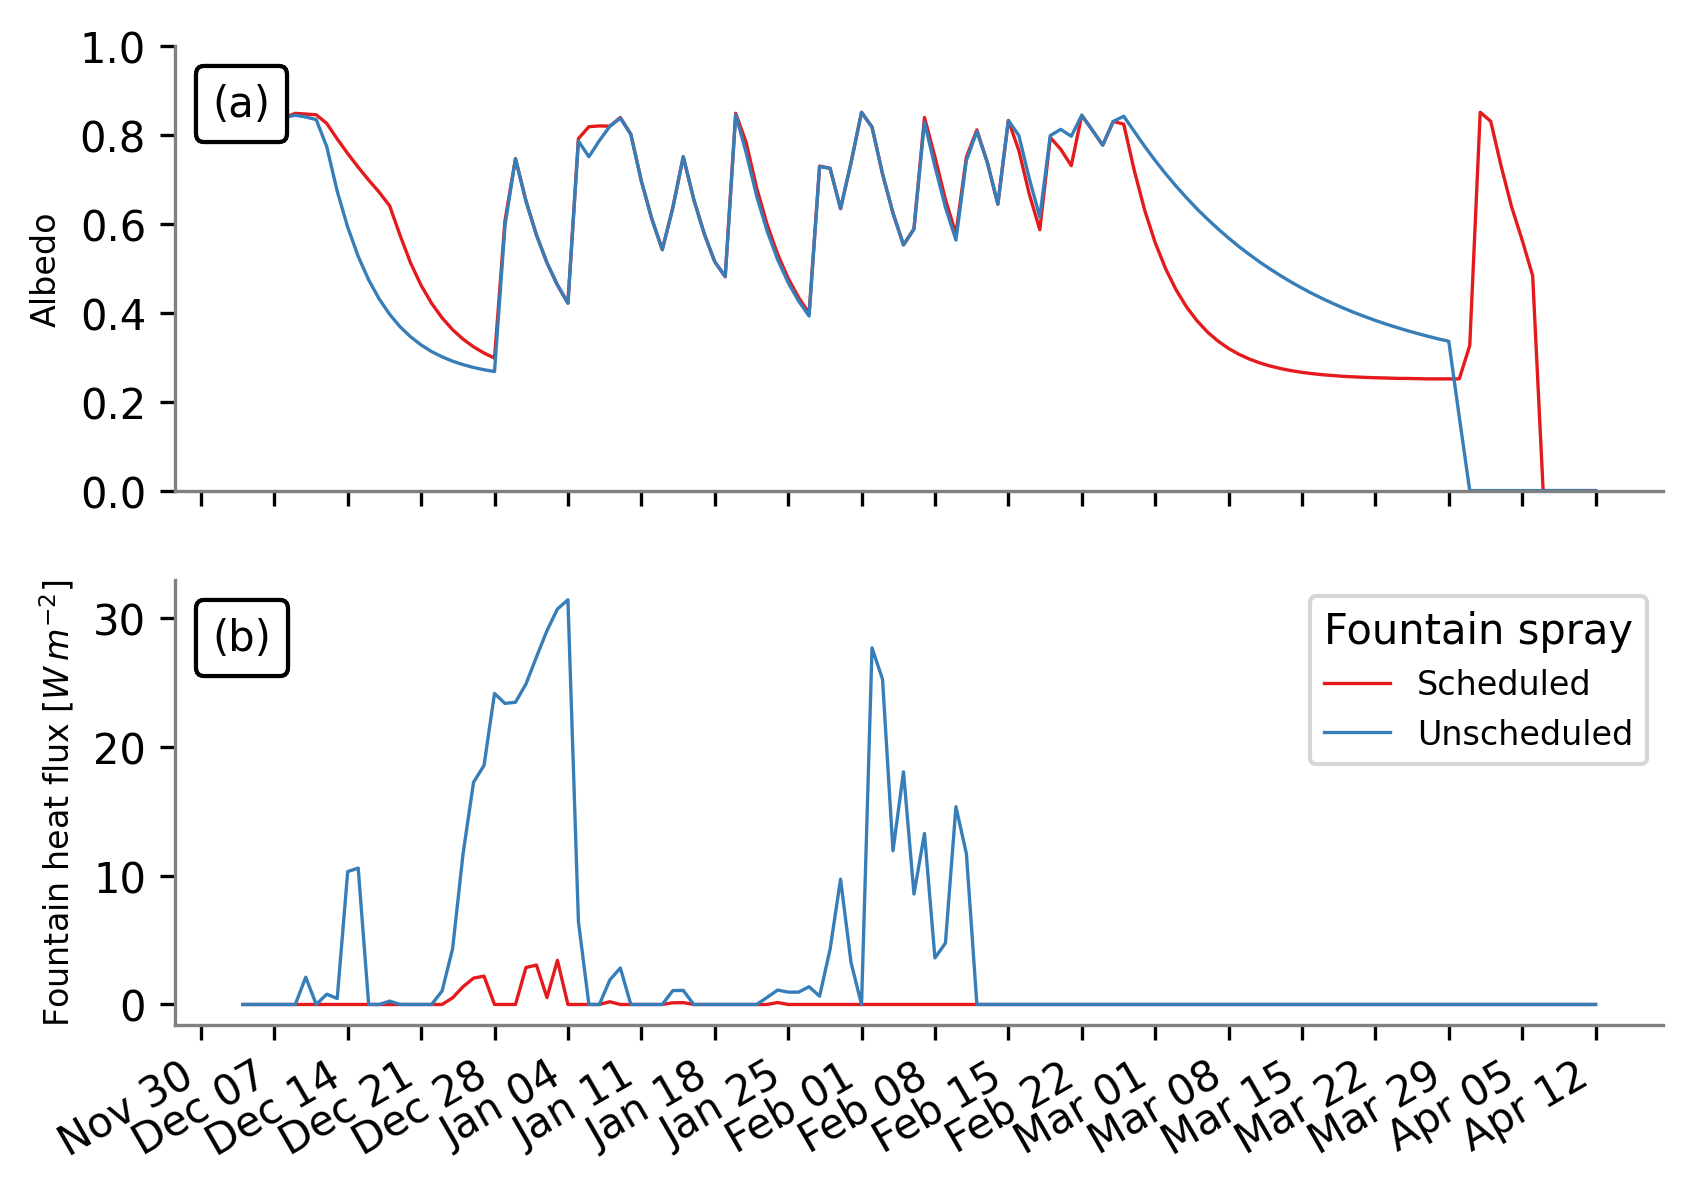
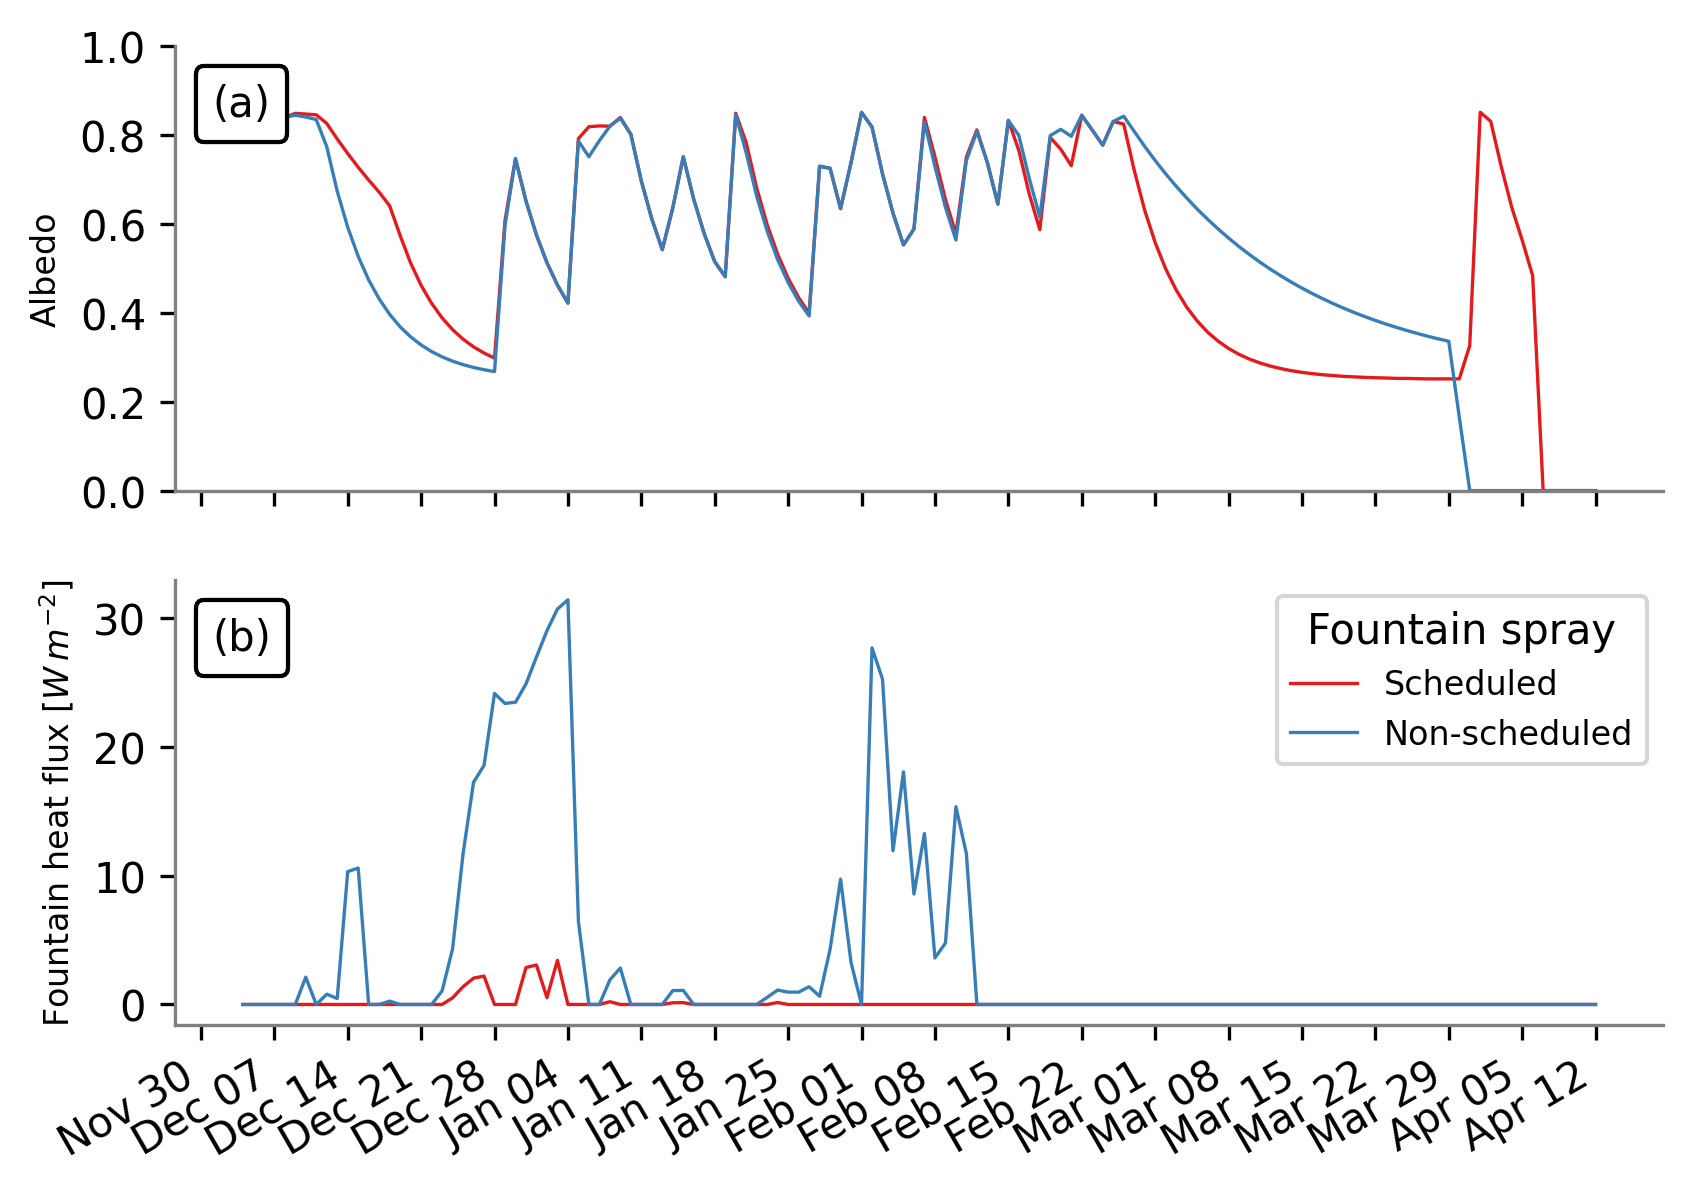
Fig updates

Changed region(s): [[0.7372, 0.4958, 0.9522, 0.6198]]

diff --git a/src/plots/autovsman.py b/src/plots/autovsman.py
@@ -34,7 +34,7 @@ if __name__ == "__main__":
     default = "#284D58"
     grey = "#ced4da"
     legend_elements = [Line2D([0], [0], color=mypal[0], lw=4, label='Scheduled'),
-                        Line2D([0], [0], color=mypal[1], lw=4, label='Unscheduled'),
+                        Line2D([0], [0], color=mypal[1], lw=4, label='Non-scheduled'),
                         Line2D([0], [0], color=default, lw=4, label='Measured Temperature'),
                        Line2D([0], [0], marker='.', color='w', label='Measured Volume',
                               markerfacecolor='k', markersize=15),
@@ -66,7 +66,7 @@ if __name__ == "__main__":
             ax[0].set_ylabel("Temperature [$\degree C$]")
             ax[0].set_ylim([-20,20])
         else:
-            spray = "Unscheduled"
+            spray = "Non-scheduled"
 
 
         # y2 = df.ppt[1:]
@@ -128,7 +128,7 @@ if __name__ == "__main__":
         if spray == "scheduled_field":
             spray = "Scheduled"
         else:
-            spray = "Unscheduled"
+            spray = "Non-scheduled"
 
         x = dfd.time[1:]
         y1 = dfd.alb[1:]
@@ -211,7 +211,7 @@ if __name__ == "__main__":
         if spray == "scheduled_field":
             spray = "Scheduled"
         else:
-            spray = "Unscheduled"
+            spray = "Non-scheduled"
 
         x = df.time[1:]
         y1 = df.iceV[1:]

diff --git a/src/plots/wue_hist.py b/src/plots/wue_hist.py
@@ -41,7 +41,7 @@ if __name__ == "__main__":
                               markerfacecolor='k', markersize=10),
                        Line2D([0], [0], marker='*', color='w', label='IN21',
                               markerfacecolor='k', markersize=15),
-            Line2D([0], [0], color=mypal[0], lw=4, label='Unscheduled'),
+            Line2D([0], [0], color=mypal[0], lw=4, label='Non-scheduled'),
             Line2D([0], [0], color=mypal[1], lw=4, label='Weather-sensitive'),
             Line2D([0], [0], color=mypal[2], lw=4, label='Water-sensitive'),
                        Line2D([0], [0], marker='o', color='k', label='Experiment',
@@ -93,7 +93,7 @@ if __name__ == "__main__":
     SITE, FOLDER = config(loc, spray="unscheduled_field")
 
     objs = ["unscheduled_field", "scheduled_icv", "scheduled_wue"]
-    labels = ["Unscheduled", "Weather-sensitive", "Water-sensitive"]
+    labels = ["Non-scheduled", "Weather-sensitive", "Water-sensitive"]
     styles=['.', 'x']
 
     mypal = sns.color_palette("Set1", 3)
